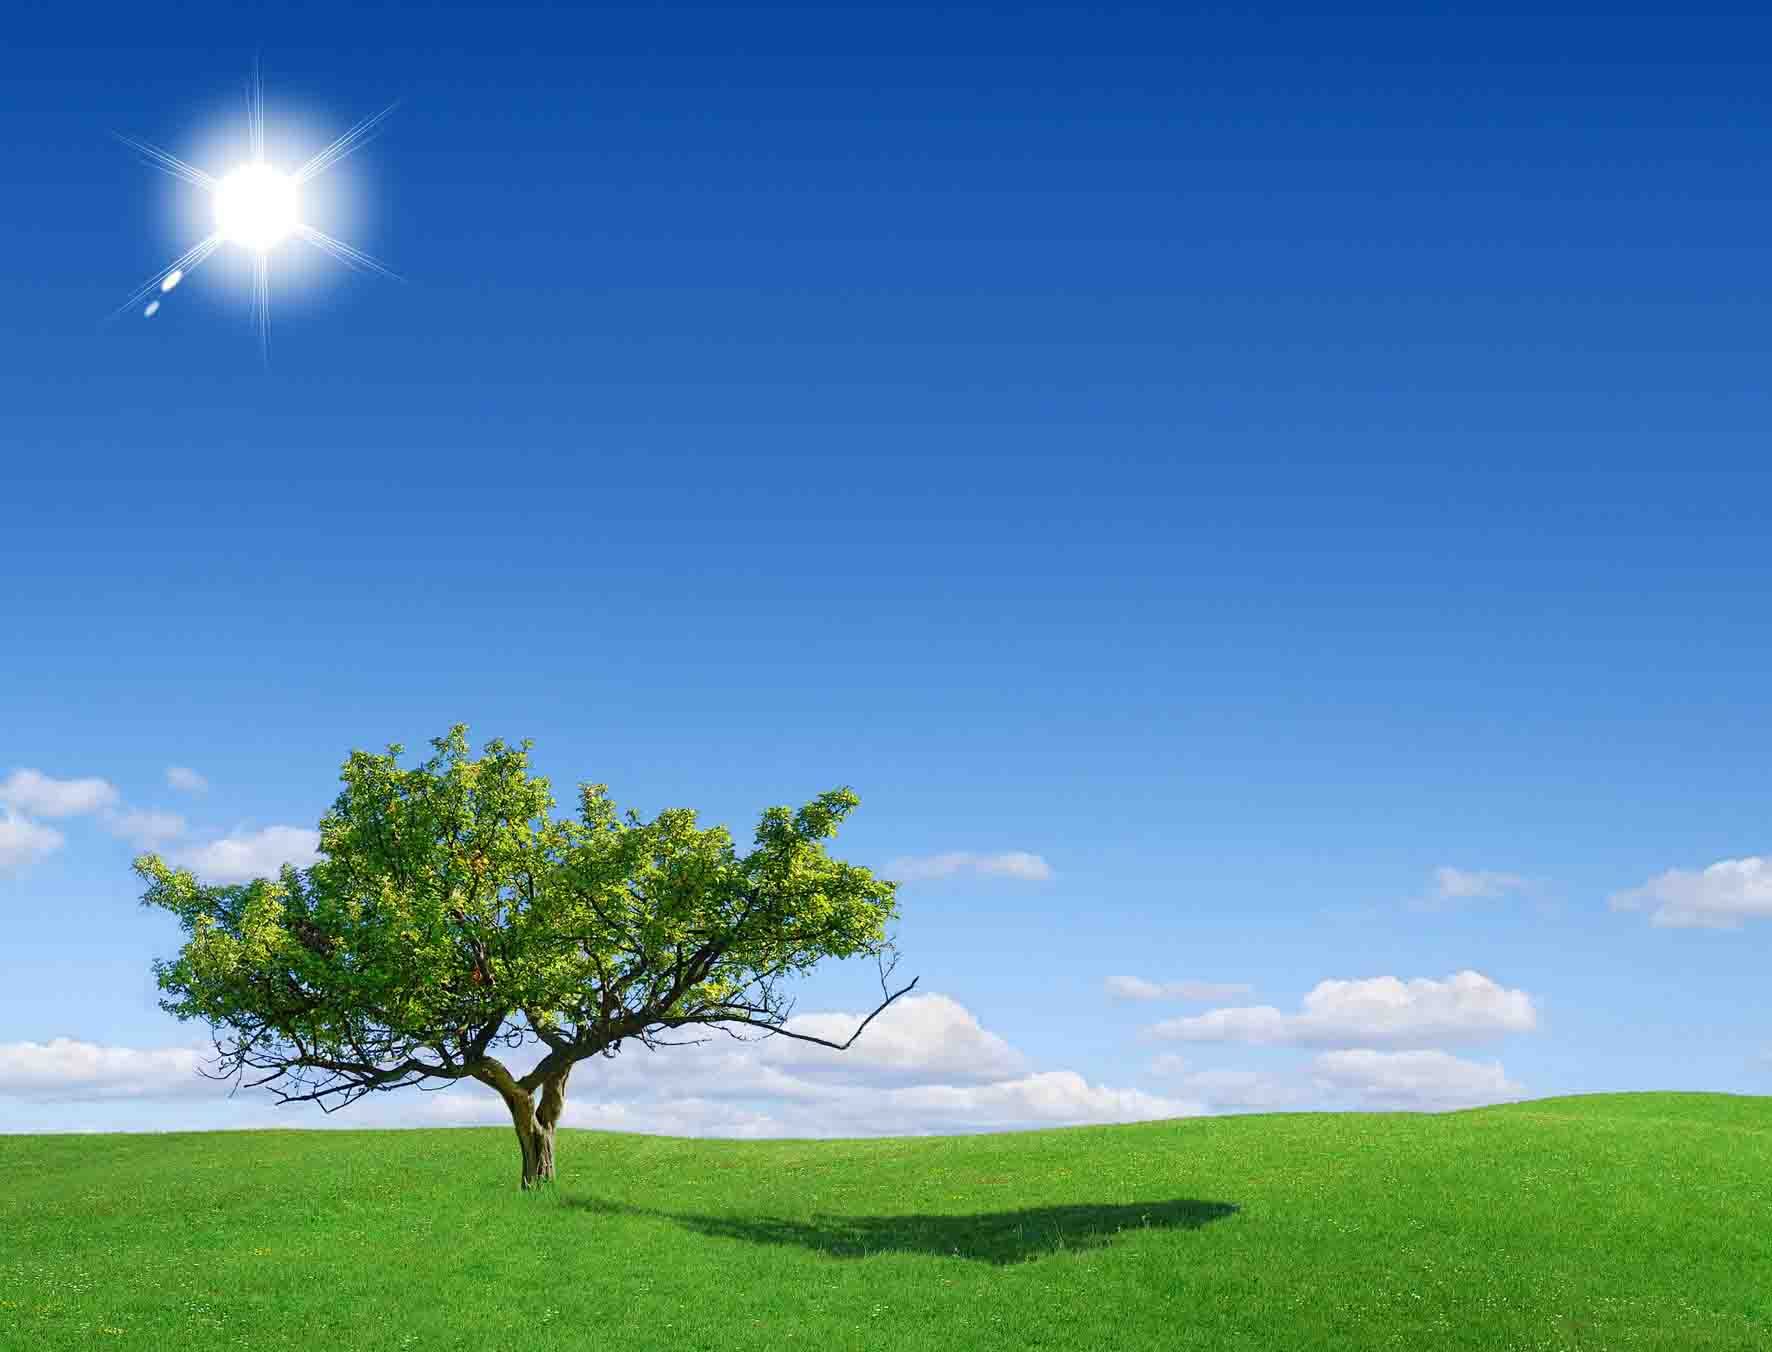
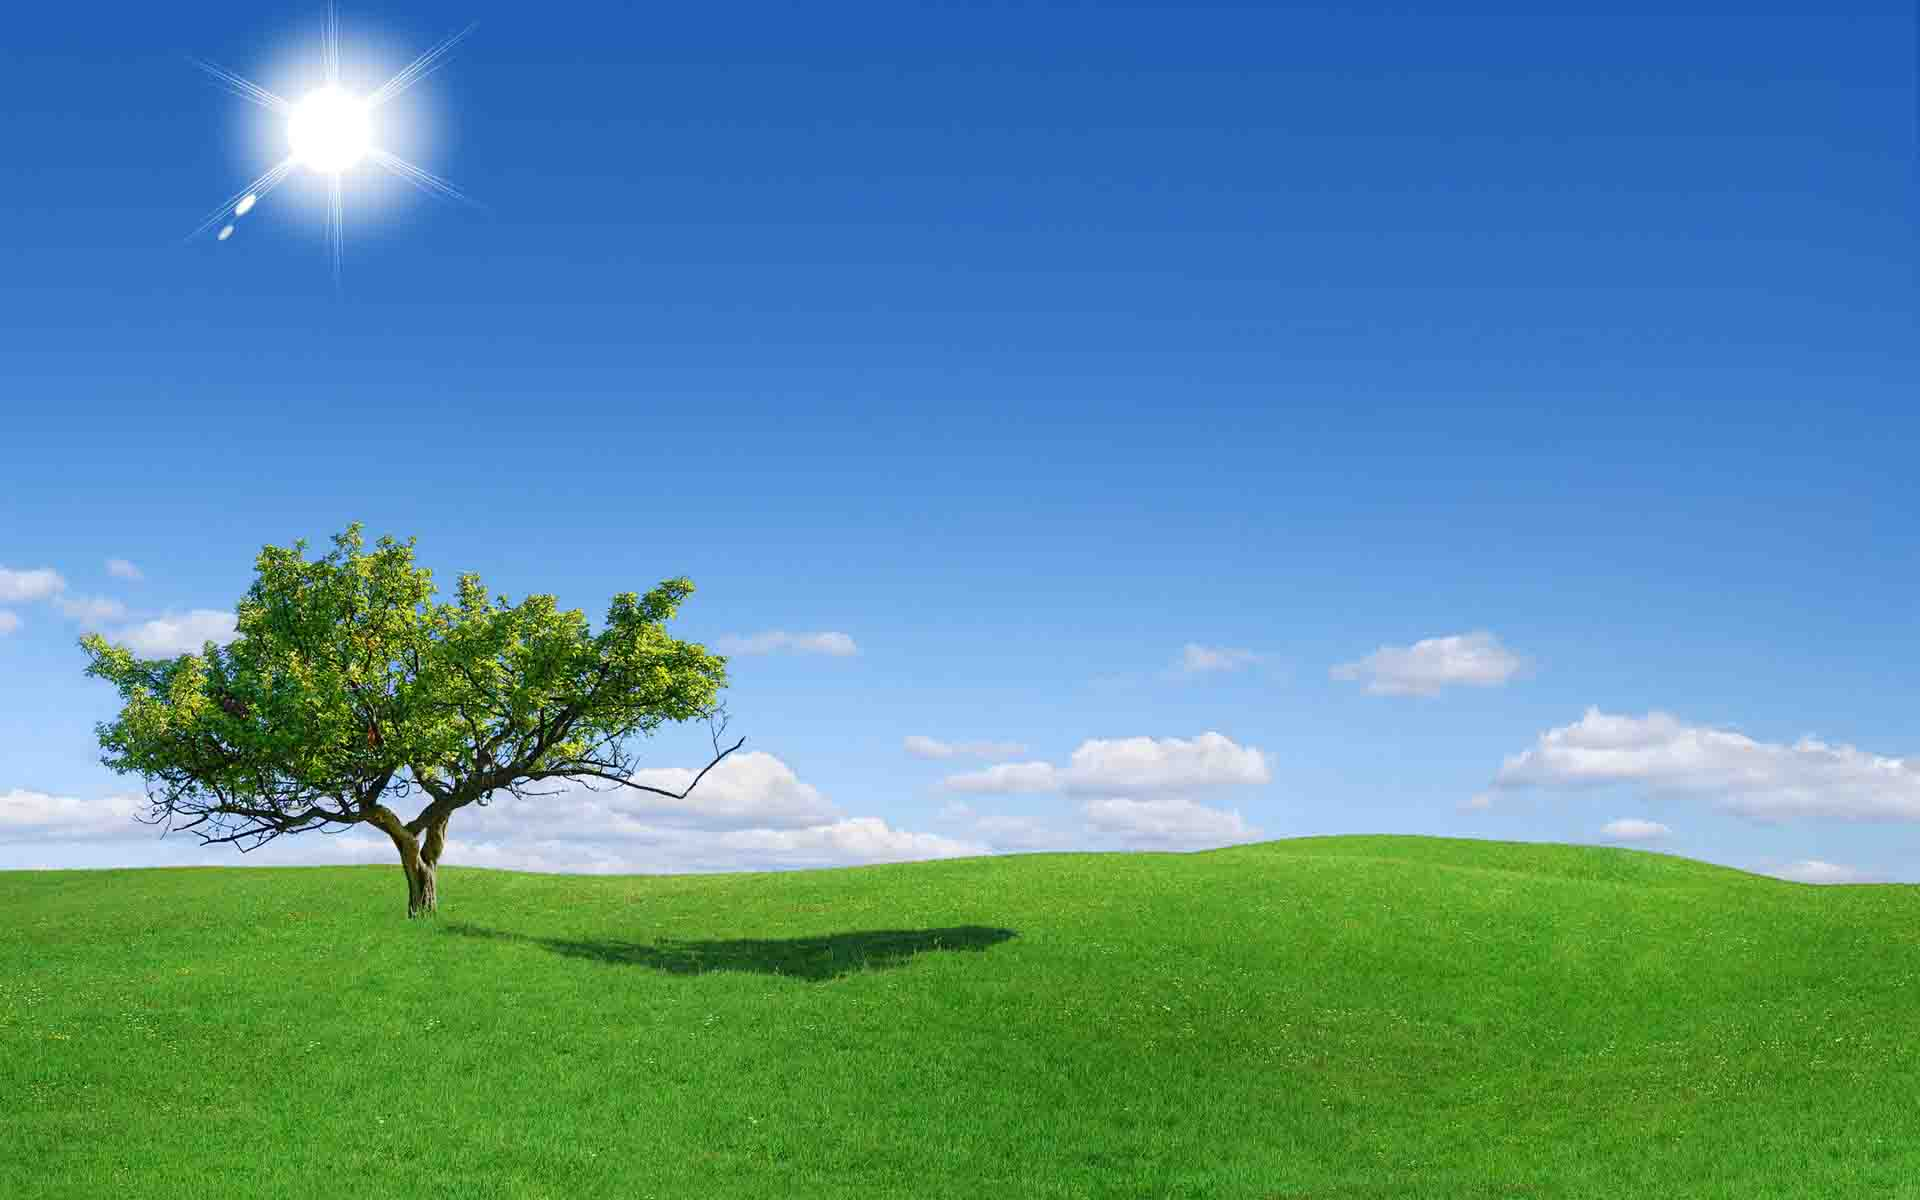
1.2.2
背景修改

diff --git a/dazigame/index.html b/dazigame/index.html
@@ -7,15 +7,17 @@
         html,body{
             height:100%;
             margin:0;
+            width:100%;
+            overflow: hidden;
         }
         ul{
             color: #fff;
         }
         .main{
-            width:1000px;
+            width:100%;
             height:100%;
             margin: 0 auto;
-            background: url("img/58pic_52393e407b8f5.jpg") no-repeat 100% 100%;
+            background: url("img/58pic_52393e407b8f5.jpg") bottom;
             background-size: cover;
             animation:shake linear 1s infinite alternate;
         }
@@ -28,17 +30,19 @@
             }
         }
         .left{
-            width:800px;
             height:100%;
             /*background: #0e0;*/
-            float: left;
+            float: right;
+            margin-right: 200px;
         }
         .right{
             width: 200px;
             height:100%;
             background: rgba(13, 141, 255,0);
-            float: left;
-
+            float: right;
+            display: flex;
+            flex-direction:column;
+            justify-content:space-around;
         }
         .show{
             width:180px;
